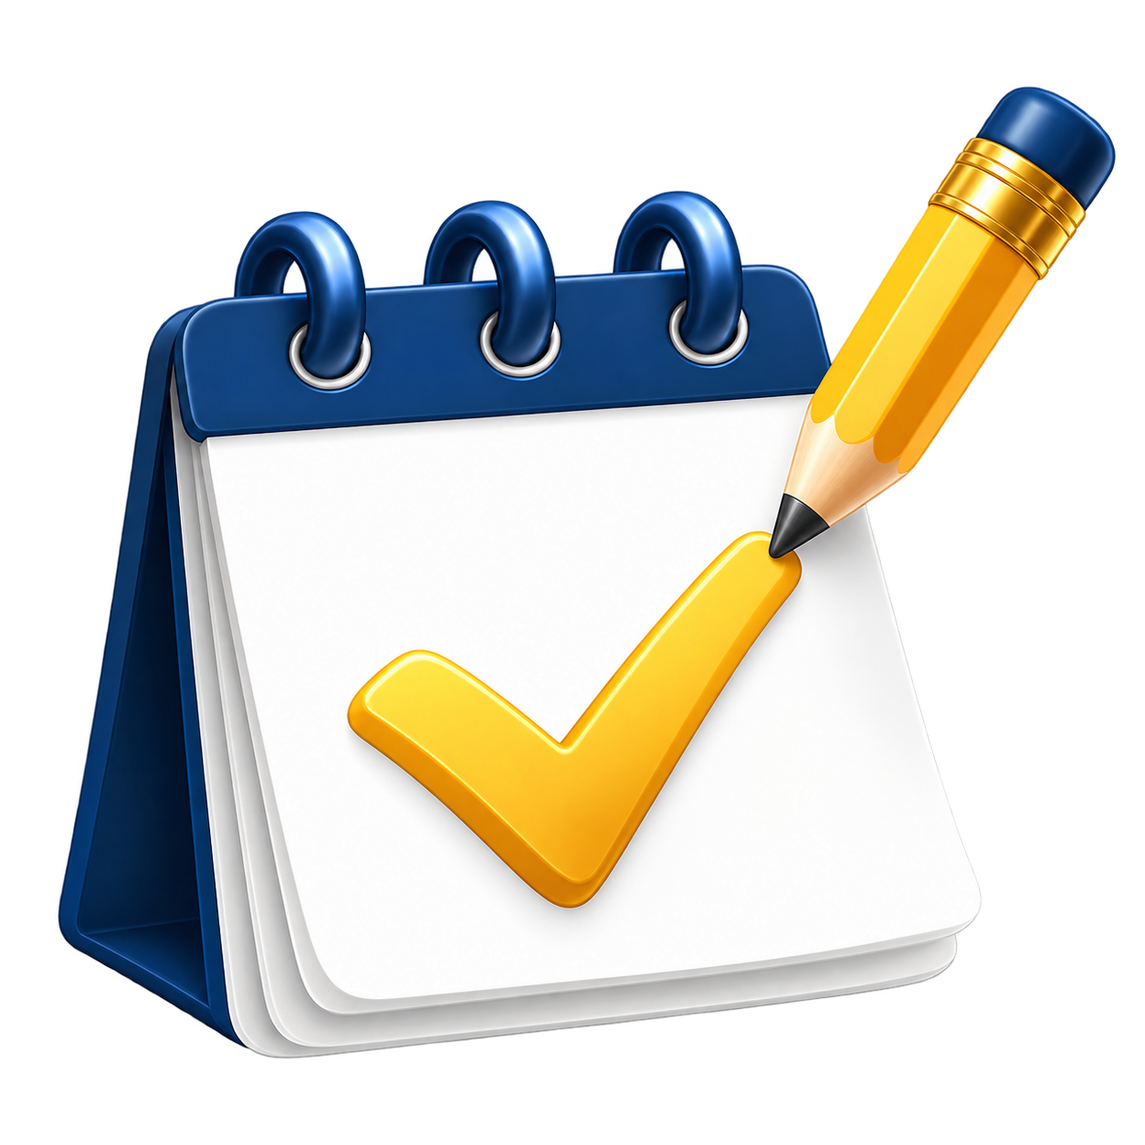
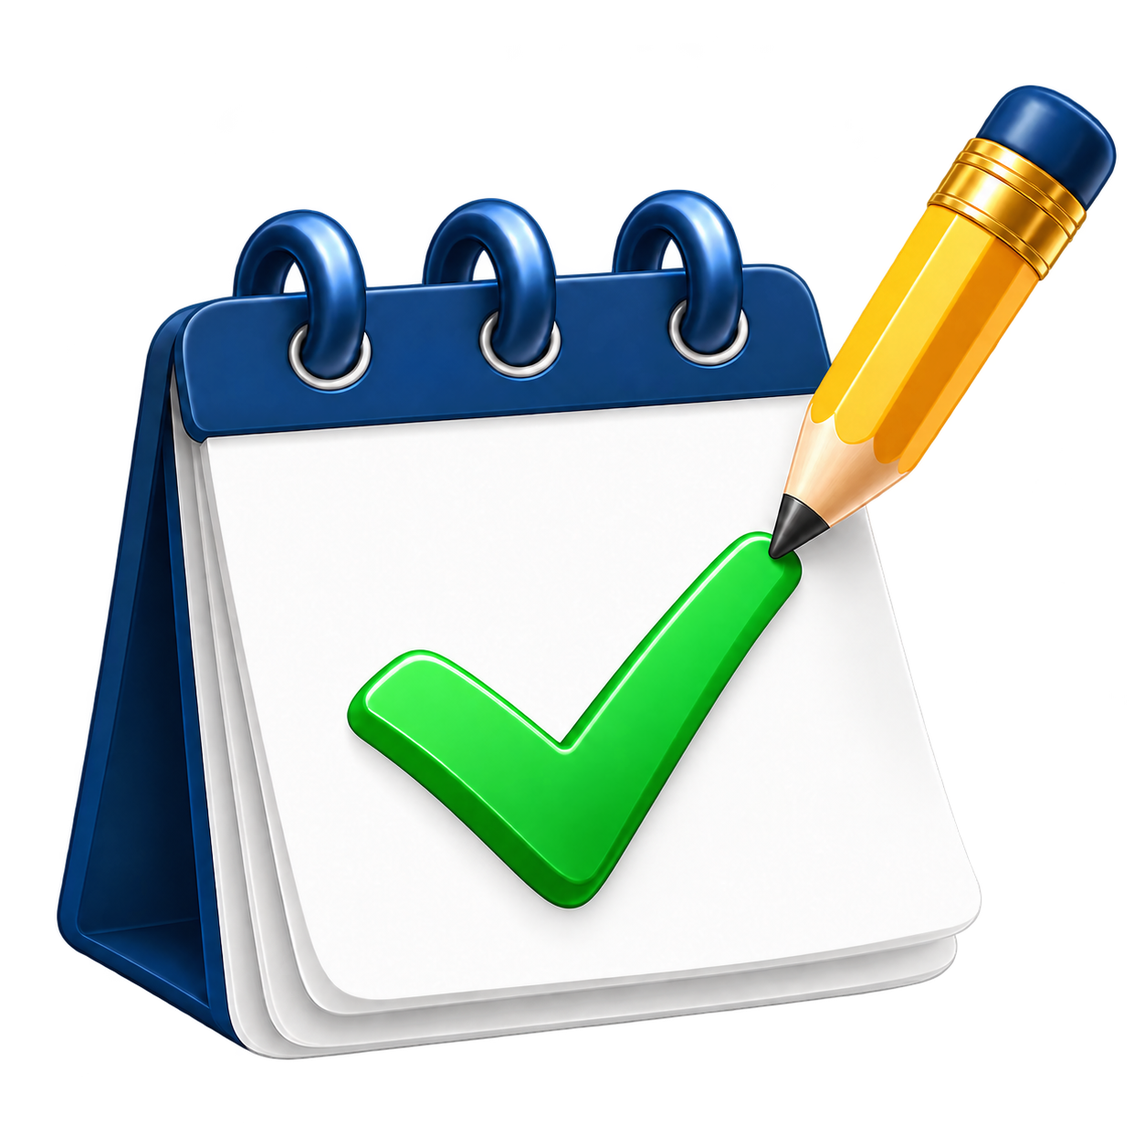
Add files via upload

diff --git a/index.html b/index.html
@@ -54,11 +54,11 @@ header p{font-size:1rem}
 <header><div class="head"><div class="brand"><img class="mark" src="due-it-mark.png" alt="Calendar with a checkmark and pencil"><div><h1>Due It!</h1><p>Keep the date. Plan the steps.</p></div></div><button id="add">＋ Add item</button></div></header>
 <main><div id="savewarning" class="notice" hidden><p>Changes could not be saved on this device. Download a backup before closing.</p><button id="emergencybackup">Download backup</button></div><div class="topline"><p id="dateheading" class="muted"></p><div class="window"><label for="window">Coming up in the next</label><select id="window" aria-label="Coming up time window"><option value="1">1 day</option><option value="3">3 days</option><option value="7">7 days</option><option value="14">14 days</option><option value="30">30 days</option><option value="custom">Custom…</option></select><div id="customwindow" class="customwindow" hidden><label for="customdays">Days (1–365)</label><input id="customdays" type="number" inputmode="numeric" min="1" max="365" step="1"><button id="applywindow" type="button">Apply</button></div></div></div>
 <div class="counts"><button class="count overdue" data-view="overdue"><strong id="overdueCount">0</strong><span class="countlabel">Overdue</span><span class="counthelp">Still unfinished</span></button><button class="count today" data-view="today"><strong id="todayCount">0</strong><span class="countlabel">Today</span><span class="counthelp">Due or planned today</span></button><button class="count" data-view="soon"><strong id="soonCount">0</strong><span class="countlabel">Coming up</span><span class="counthelp" id="windowLabel">Next 7 days</span></button></div>
-<div class="workspace"><aside><h2>My planner</h2><nav class="views" aria-label="Planner views"><button data-view="attention">Needs attention</button><button data-view="today">Today</button><button data-view="upcoming">Upcoming</button><button data-view="all" class="active">All items</button><button data-view="finished">Finished</button></nav><p class="aside-note">Counts include dated steps. Finished projects and their steps are excluded. Past-due items appear only under Overdue.</p><div class="tools"><button id="backup">Download backup</button><button id="restore">Restore backup</button><button id="examples">Start with a template</button><button id="install" class="install" hidden>Install app</button><button id="help">How it works</button></div></aside><section aria-labelledby="viewtitle"><div class="listhead"><div><h2 id="viewtitle">All items</h2><div id="resultcount" class="small muted"></div></div><button id="addsecond" class="primary">＋ Add item</button></div><div class="filters"><label>Find an item<input id="search" type="search" placeholder="Search titles, notes, or steps"></label><label>Course / category<select id="categoryFilter"><option value="">All categories</option></select></label></div><div class="batch"><label><input id="selectall" type="checkbox">Select shown items</label><span id="selectioncount" class="small">0 selected</span><button id="calendar" disabled>Add to calendar</button><button id="share" disabled>Share selected</button></div><div id="cards" class="cards"></div></section></div><div class="foot">Saved on this device. Download a backup to keep a copy or continue on another device. Calendar exports are snapshots; later changes here do not update your calendar.</div></main>
+<div class="workspace"><aside><h2>My planner</h2><nav class="views" aria-label="Planner views"><button data-view="attention">Needs attention</button><button data-view="today">Today</button><button data-view="upcoming">Upcoming</button><button data-view="all" class="active">All items</button><button data-view="finished">Finished</button></nav><p class="aside-note">Counts include dated steps. Finished projects and their steps are excluded. Past-due items appear only under Overdue.</p><div class="tools"><button id="backup">Download backup</button><button id="restore" title="Open a saved backup to continue on this device. This replaces your current planner.">Load backup</button><button id="examples">Start with a template</button><button id="install" class="install" hidden>Install app</button><button id="help">How it works</button></div></aside><section aria-labelledby="viewtitle"><div class="listhead"><div><h2 id="viewtitle">All items</h2><div id="resultcount" class="small muted"></div></div><button id="addsecond" class="primary">＋ Add item</button></div><div class="filters"><label>Find an item<input id="search" type="search" placeholder="Search titles, notes, or steps"></label><label>Course / category<select id="categoryFilter"><option value="">All categories</option></select></label></div><div class="batch"><label><input id="selectall" type="checkbox">Select shown items</label><span id="selectioncount" class="small">0 selected</span><button id="calendar" disabled>Add to calendar</button><button id="share" disabled>Share selected</button></div><div id="cards" class="cards"></div></section></div><div class="foot">Saved on this device. Download a backup to keep a copy or continue on another device. Calendar exports are snapshots; later changes here do not update your calendar.</div></main>
 <dialog id="editor"><form id="itemform"><div class="dialoghead"><h2 id="editortitle">Add an item</h2><button type="button" data-close="editor" aria-label="Close item editor">✕</button></div><div class="dialogbody"><p id="templatehint" class="templatehint" hidden>Use this as a starting point. Update the title, choose your date, and adjust or remove any steps before saving.</p><input id="editid" type="hidden"><div class="field"><label for="title">What needs to happen?</label><input id="title" required maxlength="200" placeholder="e.g., Submit history paper"></div><div class="grid"><div class="field"><label for="action">Action</label><select id="action" required><option value="" disabled selected>Select</option><optgroup label="Cancel / Renew"><option>Cancel</option><option>Renew</option></optgroup><optgroup label="Pick up / Drop off"><option>Pick up</option><option>Drop off</option><option>Receive delivery</option></optgroup><optgroup label="Complete / Submit"><option>Complete</option><option>Submit</option></optgroup><optgroup label="Arrive / Depart"><option>Arrive</option><option>Depart</option></optgroup><optgroup label="Appointment / Event"><option>Attend</option></optgroup><optgroup label="Test / Study"><option>Take test</option><option>Study</option></optgroup><optgroup label="Payment / Bill"><option>Pay</option></optgroup></select></div><div class="field"><label for="priority">Priority</label><select id="priority"><option value="standard">Standard</option><option value="important">Important</option></select></div><div class="field"><label for="date">Due / event date</label><input id="date" type="date" required></div><div class="field"><label for="time">Time (optional)</label><input id="time" type="time"><p class="help">Leave blank for an all-day item.</p></div><div class="field full repeatsection"><label for="repeat">Repeat</label><select id="repeat"><option value="none">Does not repeat</option><option value="daily">Every day</option><option value="weekly">Every week on the chosen weekday</option><option value="monthly-weekday">Same weekday each month</option><option value="monthly">Same date each month</option><option value="yearly">Every year</option></select><div id="repeatdetails" hidden><p class="help">The next occurrence is added when you mark this one finished. Unfinished dates stay visible.</p><label class="checkboxlabel" style="margin-top:12px"><input id="useenddate" type="checkbox">Choose an end date</label><div id="enddatefield" hidden style="margin-top:10px"><label for="repeatend">Last date to include</label><input id="repeatend" type="date"><p class="help">No new occurrence will be added after this date.</p></div></div></div></div><details id="extradetails"><summary>Add details</summary><div class="field"><label for="description">Description / notes</label><textarea id="description" rows="3" maxlength="10000"></textarea></div><div class="grid"><div class="field"><label for="category">Course / category</label><input id="category" maxlength="100" placeholder="e.g., History 1301" list="categories"><datalist id="categories"></datalist></div><div class="field"><label for="location">Location</label><input id="location" maxlength="500"></div><div class="field full"><label for="link">Related link</label><input id="link" type="url" placeholder="https://" maxlength="2000"></div><div class="field"><label for="workdate">When will I work on this?</label><input id="workdate" type="date"><p class="help">Adds a dated planning step.</p></div><div class="field"><label for="lead">Highlight this item before its date</label><select id="lead"><option value="">Use dashboard window only</option><option value="0">On the day</option><option value="1">1 day before</option><option value="3">3 days before</option><option value="7">7 days before</option><option value="14">14 days before</option><option value="30">30 days before</option></select><p class="help">A reminder label inside the planner.</p></div></div></details><details id="stepsdetails"><summary>Plan smaller steps</summary><p class="help">Add optional dates. You still confirm the main item is finished separately.</p><div class="field" style="margin-top:12px"><label for="template">Start with a checklist</label><div style="display:flex;gap:8px"><select id="template"><option value="assignment">Assignment</option><option value="exam">Exam preparation</option><option value="project">Project</option><option value="travel">Trip</option><option value="renewal">Renewal</option></select><button id="usetemplate" type="button">Add</button></div></div><div id="editorsteps" class="editorsteps"></div><button id="addstep" type="button" style="margin-top:12px">＋ Add step</button></details></div><div class="dialogfoot"><button type="button" data-close="editor">Cancel</button><button class="primary" type="submit">Save item</button></div></form></dialog>
 <dialog id="templatedialog" aria-labelledby="templatetitle"><div class="dialoghead"><h2 id="templatetitle">Start with a template</h2><button data-close="templatedialog" aria-label="Close templates">✕</button></div><div class="dialogbody"><p class="muted" style="margin:0">Choose a type and action, then make it yours. Nothing is added until you save.</p><div id="templatecards" class="templategrid"></div></div></dialog>
 <dialog id="sharedialog"><div class="dialoghead"><h2>Share selected items</h2><button data-close="sharedialog" aria-label="Close sharing">✕</button></div><div class="dialogbody"><p>You choose who receives these details and complete the send.</p><label for="sharetext">Message preview</label><textarea id="sharetext" class="sharetext" readonly></textarea></div><div class="dialogfoot"><button id="copyshare">Copy details</button><button id="emailshare">Open email</button><button id="deviceshare" class="primary">Share on this device</button></div></dialog>
-<dialog id="helpdialog"><div class="dialoghead"><h2>A little planning, less remembering</h2><button data-close="helpdialog" aria-label="Close help">✕</button></div><div class="dialogbody"><p><strong>Add an item</strong> with a date. Time and details are optional. Use steps for the smaller actions leading up to it.</p><p><strong>Templates:</strong> choose a type and action to open a starting item with an editable checklist. Set your own date and details, then save it to your planner. Step dates are optional.</p><p><strong>Counts:</strong> Overdue includes past dates and elapsed times today. Today includes the remaining items and steps dated today. Coming up includes tomorrow through your selected number of days. Each dated item or step is counted once, including work sessions. Undated steps do not enter the counts.</p><p><strong>Needs attention</strong> shows overdue items, today's items, those coming soon, and items inside their individual reminder window. Counts update while you use the tool and when you return. There are no notifications outside the tool.</p><p><strong>Progress</strong> is the number of completed steps. Check off the main item separately. Finishing a repeating item creates its next occurrence and resets its checklist. Weekly repeats use the selected weekday; monthly weekday repeats use its position in the month (for example, the second Tuesday). A fifth weekday is treated as the last weekday. An end date includes occurrences on that date and stops new ones afterward.</p><p><strong>Calendar:</strong> select items and download a calendar file, then open or import it in your calendar app. Dated steps can be exported separately from their project. Calendar apps may handle reminders differently; check the imported event. Exports do not synchronize later edits.</p><p><strong>Sharing:</strong> select items and preview their details before sending. Sharing does not create a shared planner.</p><p><strong>Your data:</strong> this planner uses this browser's storage, including when offline after installation. It does not automatically sync between devices. Back up regularly; clearing browser data can remove entries. Restore replaces this device's planner after confirmation.</p><p><strong>Install:</strong> on iPhone/iPad use Safari's Share menu, then Add to Home Screen. On supported desktop/Android browsers, use Install app or the browser's install menu. Installation requires a hosted HTTPS address, not opening a downloaded HTML file.</p></div><div class="dialogfoot"><button data-close="helpdialog" class="primary">Got it</button></div></dialog>
+<dialog id="helpdialog"><div class="dialoghead"><h2>A little planning, less remembering</h2><button data-close="helpdialog" aria-label="Close help">✕</button></div><div class="dialogbody"><p><strong>Add an item</strong> with a date. Time and details are optional. Use steps for the smaller actions leading up to it.</p><p><strong>Templates:</strong> choose a type and action to open a starting item with an editable checklist. Set your own date and details, then save it to your planner. Step dates are optional.</p><p><strong>Counts:</strong> Overdue includes past dates and elapsed times today. Today includes the remaining items and steps dated today. Coming up includes tomorrow through your selected number of days. Each dated item or step is counted once, including work sessions. Undated steps do not enter the counts.</p><p><strong>Needs attention</strong> shows overdue items, today's items, those coming soon, and items inside their individual reminder window. Counts update while you use the tool and when you return. There are no notifications outside the tool.</p><p><strong>Progress</strong> is the number of completed steps. Check off the main item separately. Finishing a repeating item creates its next occurrence and resets its checklist. Weekly repeats use the selected weekday; monthly weekday repeats use its position in the month (for example, the second Tuesday). A fifth weekday is treated as the last weekday. An end date includes occurrences on that date and stops new ones afterward.</p><p><strong>Calendar:</strong> select items and download a calendar file, then open or import it in your calendar app. Dated steps can be exported separately from their project. Calendar apps may handle reminders differently; check the imported event. Exports do not synchronize later edits.</p><p><strong>Sharing:</strong> select items and preview their details before sending. Sharing does not create a shared planner.</p><p><strong>Your data:</strong> this planner uses this browser's storage, including when offline after installation. It does not automatically sync between devices. Back up regularly; clearing browser data can remove entries. Load backup opens a saved backup to continue on this device. This replaces your current planner after confirmation.</p><p><strong>Install:</strong> on iPhone/iPad use Safari's Share menu, then Add to Home Screen. On supported desktop/Android browsers, use Install app or the browser's install menu. Installation requires a hosted HTTPS address, not opening a downloaded HTML file.</p></div><div class="dialogfoot"><button data-close="helpdialog" class="primary">Got it</button></div></dialog>
 <dialog id="confirmdialog"><div class="dialoghead"><h2 id="confirmtitle">Confirm</h2></div><div class="dialogbody"><p id="confirmtext"></p></div><div class="dialogfoot"><button id="confirmno">Cancel</button><button id="confirmyes" class="primary">Continue</button></div></dialog><input id="restorefile" type="file" accept="application/json,.json" hidden><div id="toast" class="toast" role="status" hidden></div>
 <script>
 'use strict';
@@ -67,7 +67,7 @@ const escapeHTML=s=>String(s??'').replace(/[&<>"']/g,c=>({'&':'&amp;','<':'&lt;'
 const id=()=>crypto.randomUUID?crypto.randomUUID():'p'+Date.now()+Math.random().toString(36).slice(2);const daystr=d=>`${d.getFullYear()}-${String(d.getMonth()+1).padStart(2,'0')}-${String(d.getDate()).padStart(2,'0')}`;const parseDay=s=>new Date(s+'T00:00:00');const shift=(s,n)=>{let d=parseDay(s);d.setDate(d.getDate()+n);return daystr(d)};const today=()=>daystr(new Date());const validDay=s=>typeof s==='string'&&/^\d{4}-\d{2}-\d{2}$/.test(s)&&s>='1900-01-01'&&s<='9998-12-31'&&!isNaN(parseDay(s))&&daystr(parseDay(s))===s;const validTime=s=>typeof s==='string'&&/^(?:[01]\d|2[0-3]):[0-5]\d$/.test(s);const displayDate=(s,t='')=>s?parseDay(s).toLocaleDateString(undefined,{month:'short',day:'numeric',year:'numeric'})+(t?' · '+new Date(s+'T'+t).toLocaleTimeString(undefined,{hour:'numeric',minute:'2-digit'}):' · All day'):'No date';const daysBetween=(a,b)=>Math.round((Date.UTC(...a.split('-').map((x,i)=>i===1?+x-1:+x))-Date.UTC(...b.split('-').map((x,i)=>i===1?+x-1:+x)))/86400000);
 let editorRepeatAnchor='';let customEditing=false;const presetWindows=[1,3,7,14,30];let staleEditor=false;let state={version:1,window:7,items:[]},view='all',selected=new Set(),draftSteps=[],toastTimer,confirmAction,installPrompt;
 function validateState(raw){if(!raw||raw.version!==1||!Array.isArray(raw.items)||raw.items.length>5000||!Number.isInteger(raw.window)||raw.window<1||raw.window>365)throw Error('This is not a supported planner backup.');let ids=new Set();const str=(v,max)=>typeof v==='string'&&v.length<=max;for(const p of raw.items){if(!str(p.id,100)||!p.id||ids.has(p.id)||!str(p.title,200)||!p.title.trim()||!validDay(p.date)||!(p.time===''||validTime(p.time))||!actions.includes(p.action)||!['standard','important'].includes(p.priority)||!['none','daily','weekly','monthly-weekday','monthly','yearly'].includes(p.repeat)||(p.repeatEnd!==undefined&&p.repeatEnd!==''&&(!validDay(p.repeatEnd)||p.repeatEnd<p.date))||(p.repeatAnchor!==undefined&&!validDay(p.repeatAnchor))||typeof p.done!=='boolean'||!Array.isArray(p.steps)||p.steps.length>200||!str(p.description,10000)||!str(p.category,100)||!str(p.location,500)||!str(p.link,2000)||!(p.lead===null||[0,1,3,7,14,30].includes(p.lead)))throw Error('The backup contains an invalid item.');ids.add(p.id);for(const s of p.steps){if(!str(s.id,100)||!s.id||ids.has(s.id)||!str(s.title,200)||!s.title.trim()||!(s.date===''||validDay(s.date))||typeof s.done!=='boolean')throw Error('The backup contains an invalid step.');ids.add(s.id)}}return {version:1,window:raw.window,items:raw.items.map(p=>({...p,repeatEnd:p.repeatEnd||'',repeatAnchor:p.repeatAnchor||p.date,steps:p.steps.map(s=>({...s}))}))}}
-try{const saved=localStorage.getItem(KEY);if(saved)state=validateState(JSON.parse(saved))}catch(e){$('savewarning').hidden=false;$('savewarning').querySelector('p').textContent='Saved data could not be loaded. Restore a valid backup before adding new items.';state.loadFailed=true}
+try{const saved=localStorage.getItem(KEY);if(saved)state=validateState(JSON.parse(saved))}catch(e){$('savewarning').hidden=false;$('savewarning').querySelector('p').textContent='Saved data could not be loaded. Load a valid backup before adding new items.';state.loadFailed=true}
 function save(){try{if(state.loadFailed)throw Error();localStorage.setItem(KEY,JSON.stringify({version:1,window:state.window,items:state.items}));$('savewarning').hidden=true}catch(e){$('savewarning').hidden=false;toast('Changes are in memory only. Download a backup before closing.')}}
 function toast(s){$('toast').textContent=s;$('toast').hidden=false;clearTimeout(toastTimer);toastTimer=setTimeout(()=>$('toast').hidden=true,5000)}
 function confirmBox(title,text,fn){$('confirmtitle').textContent=title;$('confirmtext').textContent=text;confirmAction=fn;$('confirmdialog').showModal()}
@@ -133,7 +133,7 @@ function finish(p,stepid){if(stepid){const s=p.steps.find(s=>s.id===stepid);if(p
 $('cards').addEventListener('click',e=>{const b=e.target.closest('[data-command]');if(!b)return;const c=b.dataset.command,p=state.items.find(p=>p.id===b.dataset.id);if(c==='new')openEditor();if(c==='template')openTemplates();if(c==='edit')openEditor(p);if(c==='duplicate')openEditor(p,true);if(c==='complete')finish(p,b.dataset.stepid);if(c==='delete')confirmBox('Delete this item?',`“${p.title}” and its steps will be removed.`,()=>{state.items=state.items.filter(x=>x.id!==p.id);save();render();toast('Item deleted.')})});$('cards').addEventListener('change',e=>{if(e.target.dataset.select){e.target.checked?selected.add(e.target.dataset.select):selected.delete(e.target.dataset.select);updateSelection()}if(e.target.dataset.step){const p=state.items.find(p=>p.id===e.target.dataset.parent);p.steps.find(s=>s.id===e.target.dataset.step).done=e.target.checked;save();render()}});
 function download(name,content,type){const blob=new Blob([content],{type}),url=URL.createObjectURL(blob),a=document.createElement('a');a.href=url;a.download=name;document.body.append(a);a.click();a.remove();setTimeout(()=>URL.revokeObjectURL(url),10000)}
 function backup(){download(`Due-It-${today()}.json`,JSON.stringify({version:1,window:state.window,items:state.items},null,2),'application/json');toast('Backup downloaded. Keep it somewhere you can find later.')}
-$('backup').onclick=$('emergencybackup').onclick=backup;$('restore').onclick=()=>{$('restorefile').value='';$('restorefile').click()};$('restorefile').onchange=async e=>{const f=e.target.files[0];if(!f)return;if(f.size>15*1024*1024){toast('This file is too large for a planner backup.');return}try{const restored=validateState(JSON.parse(await f.text()));confirmBox('Replace this planner?',`Restore ${restored.items.length} items from this backup? This replaces your current items on this device. Download a backup first if you want to keep them.`,()=>{state=restored;selected.clear();save();render();toast('Backup restored.')})}catch(err){toast(err.message||'Could not read this backup.')}};
+$('backup').onclick=$('emergencybackup').onclick=backup;$('restore').onclick=()=>{$('restorefile').value='';$('restorefile').click()};$('restorefile').onchange=async e=>{const f=e.target.files[0];if(!f)return;if(f.size>15*1024*1024){toast('This file is too large for a planner backup.');return}try{const restored=validateState(JSON.parse(await f.text()));confirmBox('Replace this planner?',`Load ${restored.items.length} items from this backup? This replaces your current items on this device. Download a backup first if you want to keep them.`,()=>{state=restored;selected.clear();save();render();toast('Backup loaded.')})}catch(err){toast(err.message||'Could not read this backup.')}};
 const selectedUnits=()=>units().filter(u=>selected.has(u.key));const icsEscape=s=>String(s).replace(/\\/g,'\\\\').replace(/\r?\n/g,'\\n').replace(/;/g,'\\;').replace(/,/g,'\\,');function foldLine(line){let out='',part='',n=0;for(const c of line){const bytes=new TextEncoder().encode(c).length;if(n+bytes>73){out+=part+'\r\n ';part='';n=1}part+=c;n+=bytes}return out+part}
 function exportCalendar(){const lines=['BEGIN:VCALENDAR','VERSION:2.0','PRODID:-//Due It!//EN','CALSCALE:GREGORIAN','METHOD:PUBLISH'];const stamp=new Date().toISOString().replace(/[-:]/g,'').replace(/\.\d{3}/,'');for(const u of selectedUnits()){lines.push('BEGIN:VEVENT',`UID:${u.key}@everyday-planner.local`,`DTSTAMP:${stamp}`);const d=u.date.replace(/-/g,'');if(u.time){lines.push(`DTSTART:${d}T${u.time.replace(':','')}00`);const end=new Date(u.date+'T'+u.time);end.setMinutes(end.getMinutes()+30);lines.push(`DTEND:${daystr(end).replace(/-/g,'')}T${String(end.getHours()).padStart(2,'0')}${String(end.getMinutes()).padStart(2,'0')}00`)}else lines.push(`DTSTART;VALUE=DATE:${d}`,`DTEND;VALUE=DATE:${shift(u.date,1).replace(/-/g,'')}`);lines.push('SUMMARY:'+icsEscape(u.isStep?u.title+' — '+u.parent.title:u.title),'DESCRIPTION:'+icsEscape([u.action,u.parent.description,u.parent.link,u.isStep?'Step in '+u.parent.title:'',u.parent.category].filter(Boolean).join('\n')),'LOCATION:'+icsEscape(u.parent.location));if(!u.isStep&&u.lead!==null)lines.push('BEGIN:VALARM','ACTION:DISPLAY','DESCRIPTION:'+icsEscape(u.title),u.lead===0?'TRIGGER:PT0M':`TRIGGER:-P${u.lead}D`,'END:VALARM');lines.push('END:VEVENT')}lines.push('END:VCALENDAR');download('Due-It-Events.ics',lines.map(foldLine).join('\r\n')+'\r\n','text/calendar;charset=utf-8');toast('Calendar file downloaded. Open or import it in your calendar; timed events use local time.')}
 function shareText(){return selectedUnits().map(u=>[u.isStep?u.title+' (step in '+u.parent.title+')':u.title,`${u.action} · ${displayDate(u.date,u.time)}`,u.parent.category,u.parent.location?'Location: '+u.parent.location:'',u.parent.description,u.parent.link,!u.isStep&&u.parent.steps.length?'Steps:\n'+u.parent.steps.map(s=>`${s.done?'✓':'□'} ${s.title}${s.date?' — '+displayDate(s.date):''}`).join('\n'):''].filter(Boolean).join('\n')).join('\n\n──────────\n\n')}

diff --git a/sw.js b/sw.js
@@ -1,4 +1,4 @@
-const CACHE='everyday-planner-v6';
+const CACHE='everyday-planner-v7';
 const ASSETS=['./','./index.html','./due-it-mark.png','./manifest.webmanifest','./icons/icon-192.png','./icons/icon-512.png'];
 self.addEventListener('install',e=>e.waitUntil(caches.open(CACHE).then(c=>c.addAll(ASSETS))));
 self.addEventListener('activate',e=>e.waitUntil(caches.keys().then(keys=>Promise.all(keys.filter(k=>k.startsWith('everyday-planner-')&&k!==CACHE).map(k=>caches.delete(k)))).then(()=>self.clients.claim())));
